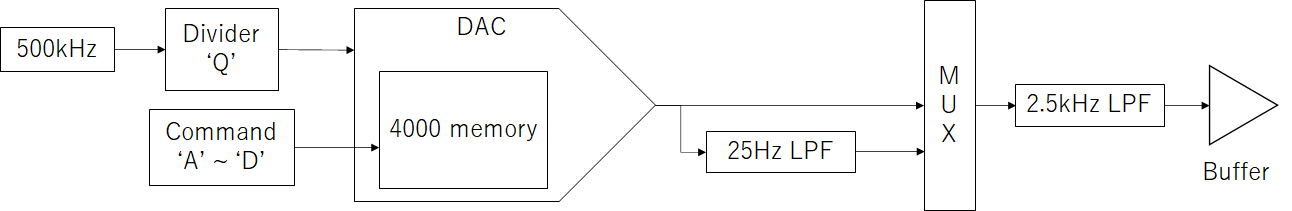
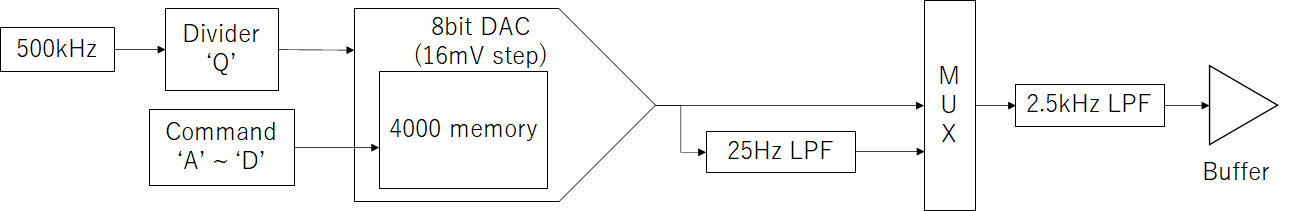
DACの特性を追加

Changed region(s): [[0.3096, 0.2275, 0.4334, 0.3128], [0.3096, 0.0569, 0.4334, 0.1706]]

diff --git a/README.md b/README.md
@@ -19,6 +19,7 @@ USB制御電圧源VG01はお手軽に参照電圧を発生させるために、U
 
 VG01は4chの独立した8bit DACと4000サンプル分のメモリを用いて任意波形発生器(AWG)のように電圧を生成します。
 基準クロックには500kHzを分周したものを使い、最も早くて250kHzです（分周比2）。
+8bit DACは16mVステップで0~4080mVの範囲で動作します。
 出力には2.5kHzもしくは25Hz（default）のローパスフィルタ(LPF)が備えられています。
 12bit精度（1mVステップ）を得る場合、デルタシグマ変調を用いて波形パターンを作成することで低雑音の出力を得ることが出来ます。
 [VG01クラスのgen_constant_wo_calibrationメソッド](./vg01.py)を参考にしてください。
